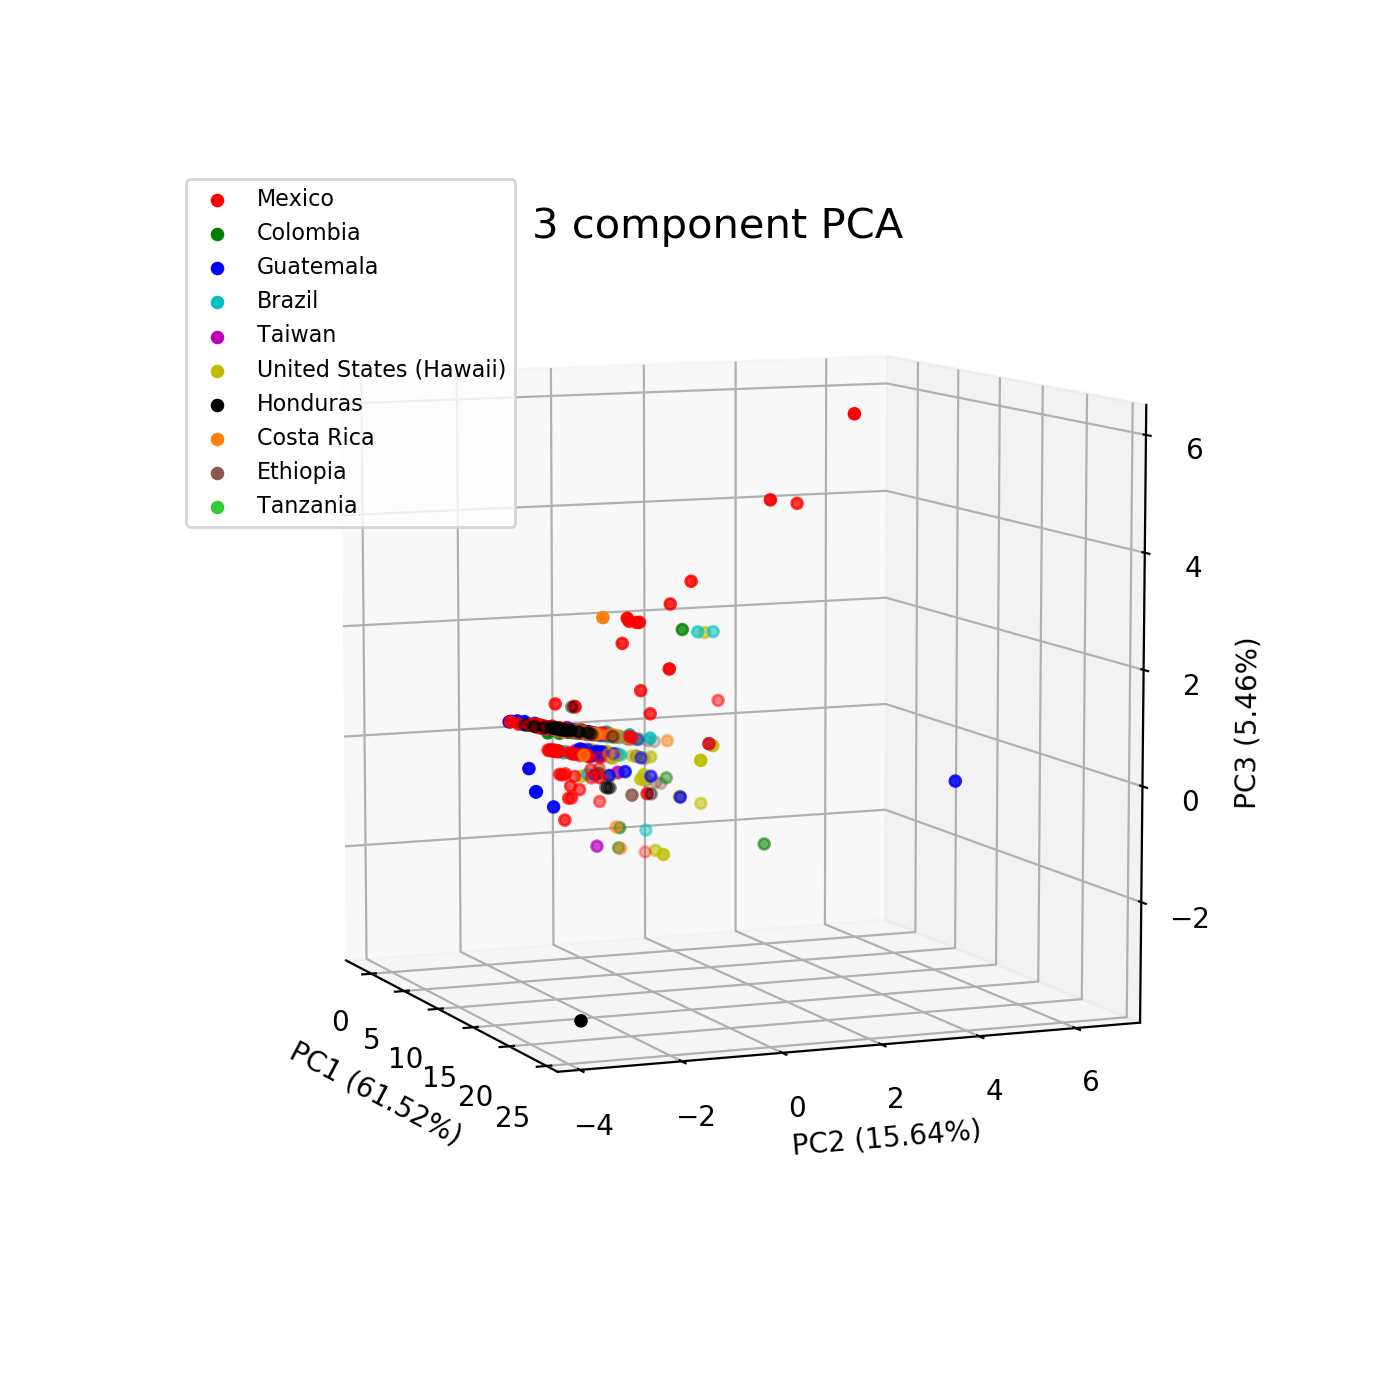
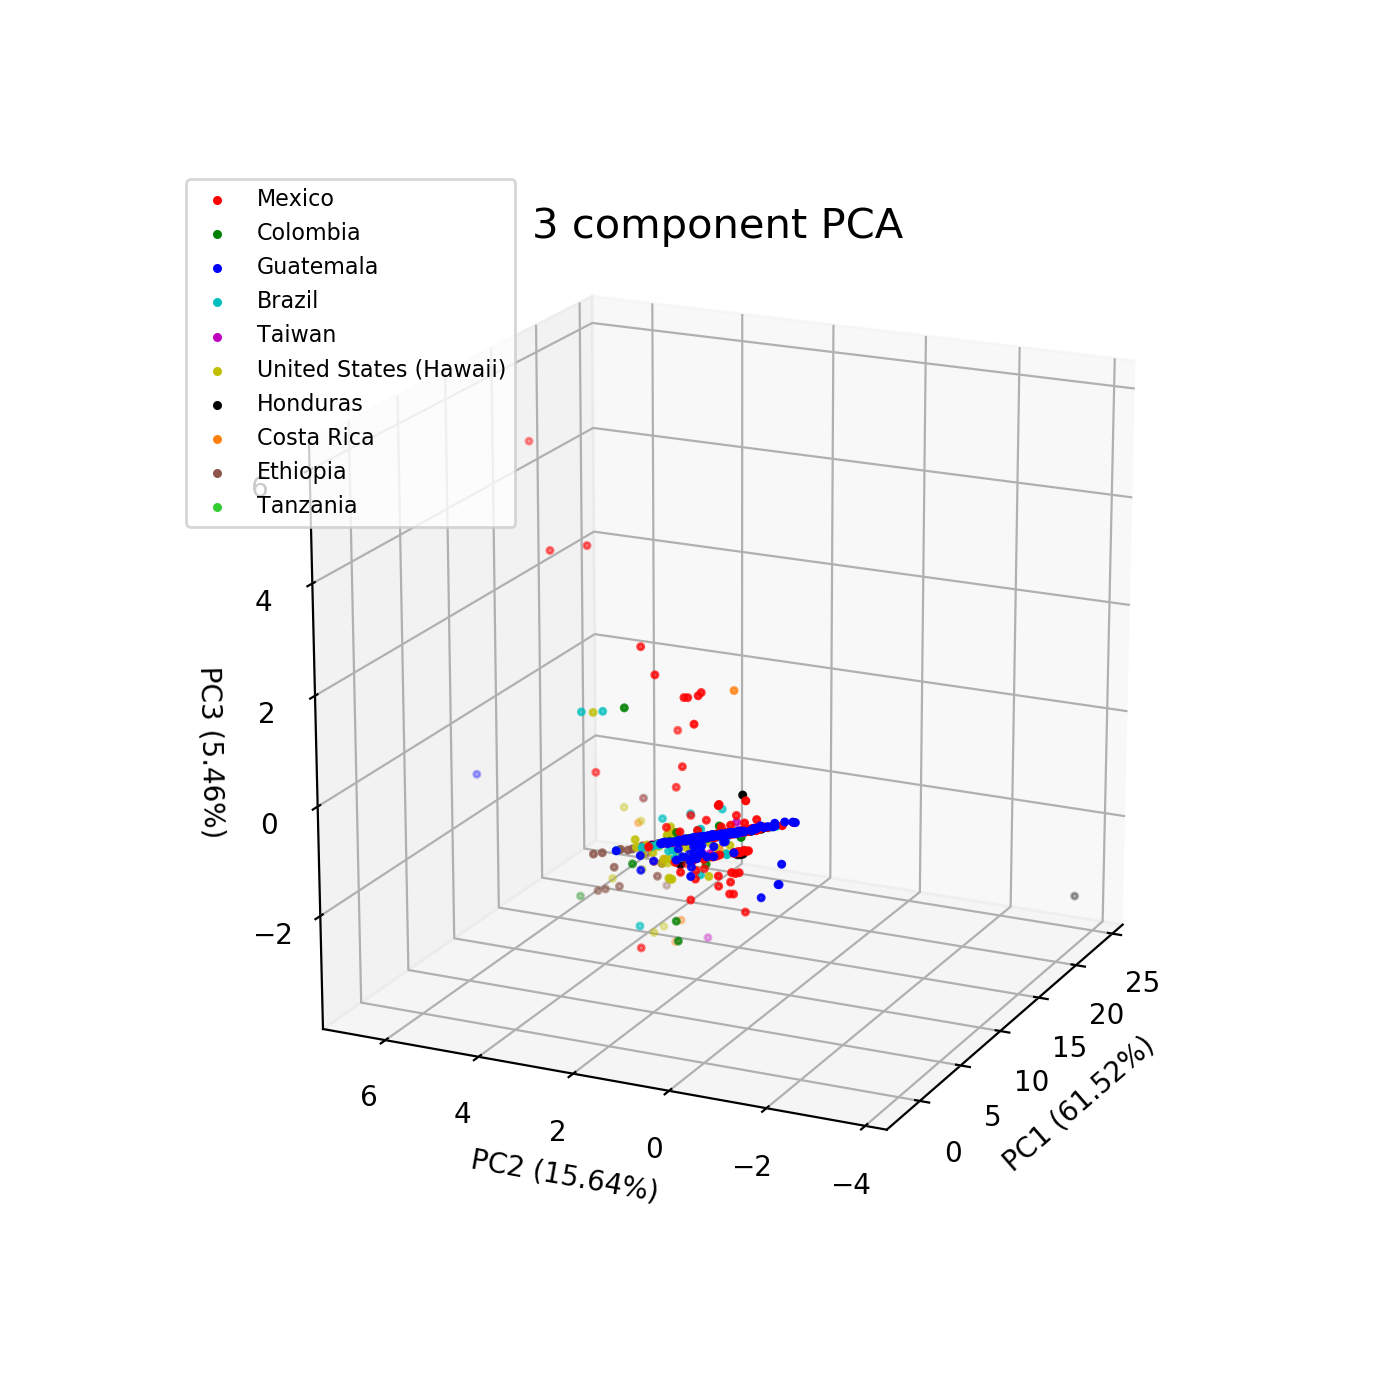
add README.md

diff --git a/Coffee_analysis.py b/Coffee_analysis.py
@@ -28,9 +28,9 @@ df1 = df1.rename(columns={'Country.of.Origin': 'Country'})
 country_list = df1['Country'].unique().tolist()
 country_list.pop(-2) # removes 'nan' country
 
-df_histogram = pd.DataFrame(df1['Country'].value_counts())
-df_histogram.reset_index(level=0, inplace=True)
-df_histogram.columns=['Country', 'Number of Suppliers']
+df_barchart = pd.DataFrame(df1['Country'].value_counts())
+df_barchart.reset_index(level=0, inplace=True)
+df_barchart.columns=['Country', 'Number of Suppliers']
 
 """
 1. Which country has the most coffee suppliers tested?
@@ -38,12 +38,12 @@ df_histogram.columns=['Country', 'Number of Suppliers']
 
 Since ~82% of coffee supplies are from the top 10 countries, I will be focusing 
 on them for the remainder of analysis
-print(df_histogram['Number of Suppliers'][0:10].sum()/
-      df_histogram['Number of Suppliers'].sum())
+print(df_barchart['Number of Suppliers'][0:10].sum()/
+      df_barchart['Number of Suppliers'].sum())
 """
-# frequency histogram
-x = df_histogram['Country']
-y = df_histogram['Number of Suppliers']
+# frequency barchart
+x = df_barchart['Country']
+y = df_barchart['Number of Suppliers']
 
 fig, ax1 = plt.subplots(figsize=(10, 5), tight_layout=True) 
 # figsize = (length, width)
@@ -52,14 +52,14 @@ ax1.bar(x, y, width=0.8)
 ax1.set_ylabel('Number of Suppliers')
 ax1.set_xlabel('Countries')
 ax1.set_title('Coffee Suppliers Around the World')
-plt.xticks(x, df_histogram['Country'], rotation=90, fontsize=10)
+plt.xticks(x, df_barchart['Country'], rotation=90, fontsize=10)
 
 """
 2. What is the average total rating of each country's coffee? 
 # out of 90 total points
 """
 df1['Total'] = df1.sum(axis=1)
-top10_countries = df_histogram['Country'].tolist()[:10]
+top10_countries = df_barchart['Country'].tolist()[:10]
 
 country_total = {}
 for each in top10_countries:
@@ -128,8 +128,8 @@ for each in top10_countries:
 
     print()
 """
-3b. One-way ANOVA or Kruskall-Wallis test
-* Kruskall-Wallis nonparametric test b/c data is abnormal
+3b. Kruskal-Wallis test
+* Kruskal-Wallis nonparametric test b/c data is abnormal
 """
 Mexico_samples = country_total['Mexico'].tolist()
 Colombia_samples = country_total['Colombia'].tolist()
@@ -148,7 +148,7 @@ kruskal_calc_p = stats.kruskal(Mexico_samples, Colombia_samples,
                                Honduras_samples, Costa_Rica_samples,
                                Ethiopia_samples, Tanzania_samples)[1]
 
-print('Kruskall-Wallis Result: ', kruskal_calc_p)
+print('Kruskal-Wallis Result: ', kruskal_calc_p)
 if kruskal_calc_p > 0.05:
     print('Not significant: fail to reject H0')
 else:
@@ -329,7 +329,7 @@ for target, color in zip(targets,colors):
                  df_PCA.loc[indicesToKeep, 'PC3'],
                  label=target,
                  c = color,
-                 s = 15)
+                 s = 5)
 plt.legend(loc=2, prop={'size': 8})
 plt.show()
 

diff --git a/README.md b/README.md
@@ -1,0 +1,89 @@
+# Coffee Quality Analysis
+Welcome to my Coffee Quality Analysis project!
+
+The dataset for this project was taken from [jldbc](https://github.com/jldbc/coffee-quality-database). I wanted to practice my data analysis skills and decided to use this particular dataset coffee from different parts of the world using data.
+
+The data comes from the 2015 Coffee Quality Institute and I focused on these particular measures of quality (features):
+
+* Aroma
+* Flavor
+* Aftertaste
+* Acidity
+* Body
+* Balance
+* Uniformity
+* Cup Cleanliness
+* Sweetness
+
+## Questions
+
+1. In this dataset, which countries produce the most coffee?
+
+2. Are the average total ratings of coffee from the top 10 country similar?
+
+3. Do we need all category ratings to describe the coffee?
+
+  
+
+## Methods
+
+### Q1: 
+* Ranked Barchar and Boxplots
+
+### Q2
+* Shapiro-Wilks and D'Agostino-Pearson: test normality
+* Kruskal-Wallis: Non parametric test for similarity between groups
+* Dunn Test: identify different groups
+
+###  Q3
+* PCA: Reduce dimensions and visualizaition
+
+## Results
+
+### Q1
+Top 10 coffee suppliers are:
+1. Mexico
+2. Colombia
+3. Guatemala
+4. Brazil
+5. Taiwan
+6. United States (Hawaii)
+7. Honduras
+8. Costa Rica
+9. Ethiopia
+10. Tanzania
+
+![Frequency bar chart](https://github.com/timmy224/Coffee_Quality_Analysis/blob/master/images/Figure_1.png?raw=true)
+
+ 
+
+![Box plot](https://github.com/timmy224/Coffee_Quality_Analysis/blob/master/images/Figure_2.png?raw=true)
+
+### Q2
+
+The majority of each group (countries) had an non-Gaussian distribution.
+
+Kruskal-Wallis test determined there were differences in overall coffee quality and Dunn Test identified some groups to be different (see image).
+
+  
+![Dunn Test](https://github.com/timmy224/Coffee_Quality_Analysis/blob/master/images/Figure_3.png?raw=true)
+
+
+### Q3
+
+When examining covariance, three principal components captured 82.6% of explained variance.
+
+  
+![Variance matrix](https://github.com/timmy224/Coffee_Quality_Analysis/blob/master/images/Figure_4.png?raw=true)
+
+ 
+Coffee from all countries clustered together with Mexico (red dots) least amount of clustering.
+
+![PCA](https://github.com/timmy224/Coffee_Quality_Analysis/blob/master/images/Figure_6.png)
+
+## Discussion
+What did I learn?
+Coffee from around the world are ranked very similarly or that I need to expand my dataset to better discriminate coffee from different countries. 
+
+## Future Directions
+Will webscrape 2019 (most recent) dataset and use more features.
